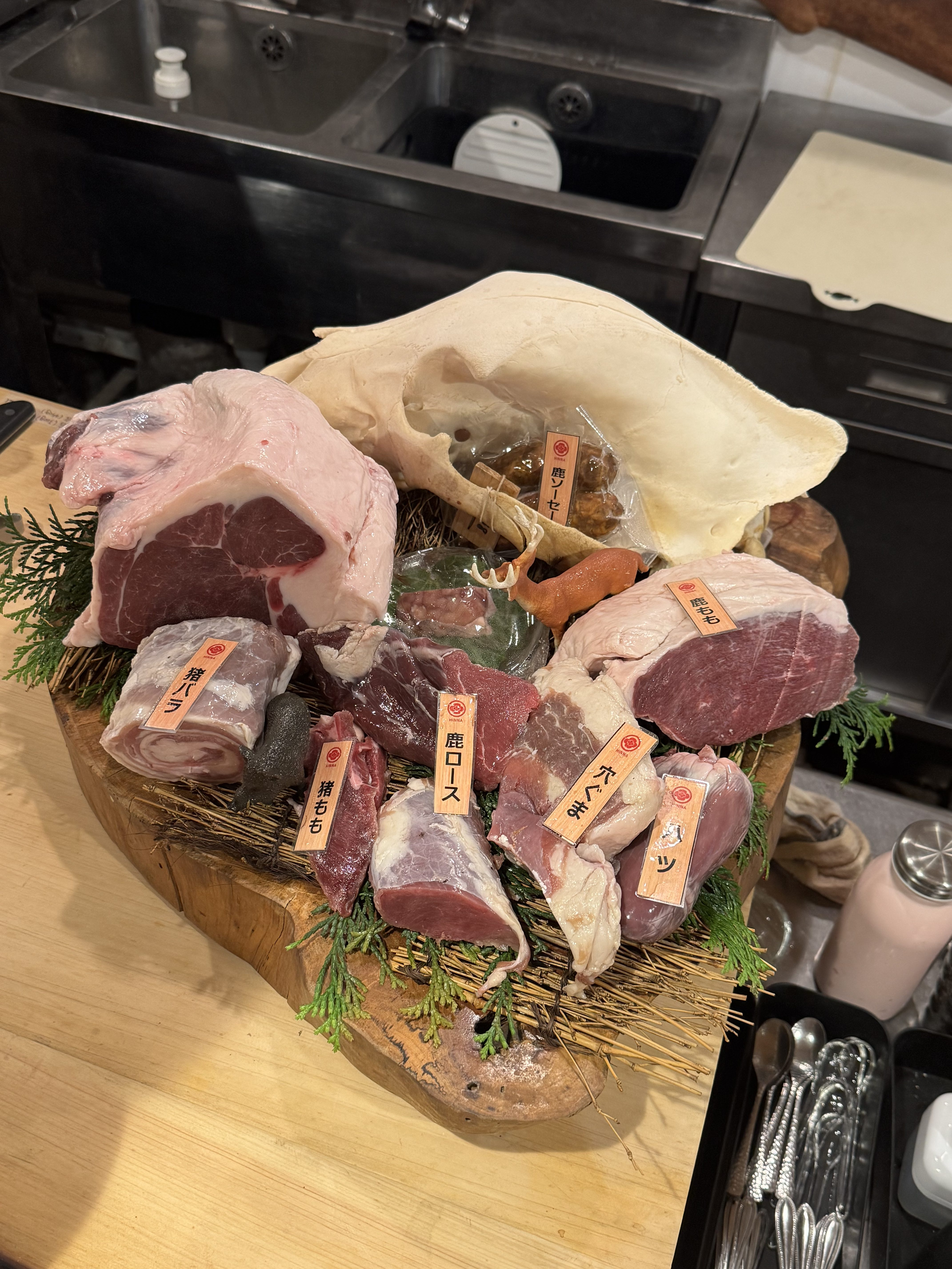
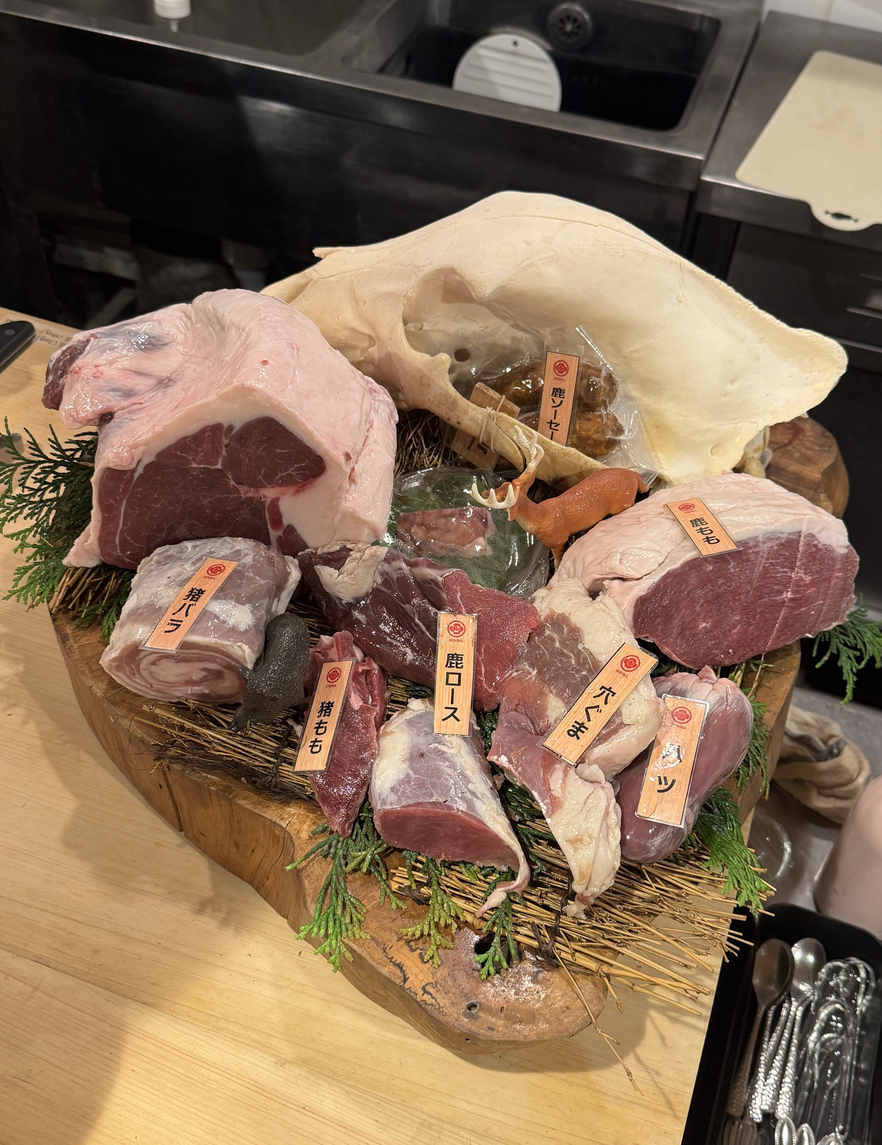
text and image

diff --git a/gallery.js b/gallery.js
@@ -55,7 +55,7 @@ const GALLERY = [
   {"src": "london-2024-4", "place": "London", "year": "2024", "r": 1.3333},
   {"src": "chongqing-2025-3", "place": "Chongqing", "year": "2025", "r": 0.4953},
   {"src": "fushimi-inari-taisha-2026-5", "place": "Fushimi Inari Taisha, Kyoto", "year": "2026", "r": 0.75},
-  {"src": "osaka-2026-10", "place": "Osaka", "year": "2026", "r": 0.75},
+  {"src": "osaka-2026-10", "place": "Osaka", "year": "2026", "r": 0.7706},
   {"src": "chongqing-2025-4", "place": "Chongqing", "year": "2025", "r": 0.7422},
   {"src": "osaka-2026-6", "place": "Osaka", "year": "2026", "r": 1.3333},
   {"src": "kyoto-2026-2", "place": "Kyoto", "year": "2026", "r": 0.75},

diff --git a/index.html b/index.html
@@ -70,8 +70,7 @@
   </section>
 
   <section class="projects-wrapper gallery-wrapper" aria-labelledby="gallery-title">
-    <h2 id="gallery-title" class="projects-title">Gallery</h2>
-    <p class="gallery-desc">All photos taken by me!</p>
+    <h2 id="gallery-title" class="projects-title">Camera Roll</h2>
     <div class="gallery-mural" id="gallery-mural"></div>
   </section>
 

diff --git a/styles.css b/styles.css
@@ -620,12 +620,6 @@ h2.page-title {
 
 /* ── Gallery ── */
 .gallery-wrapper { padding-top: 0; }
-.gallery-desc {
-  font-size: 0.925rem;
-  color: var(--text);
-  opacity: 0.8;
-  margin-bottom: 1rem;
-}
 .gallery-mural {
   display: flex;
   flex-wrap: wrap;
